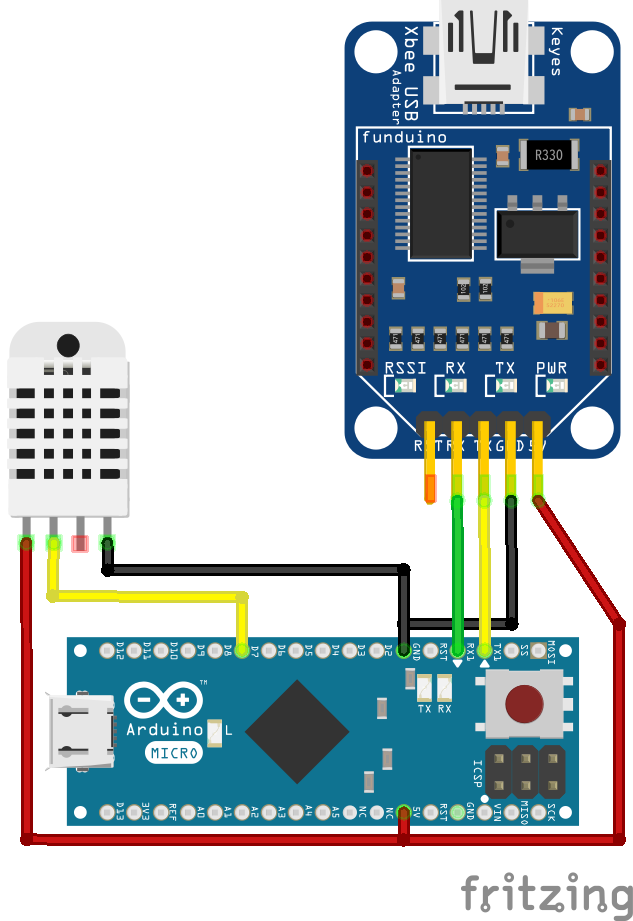
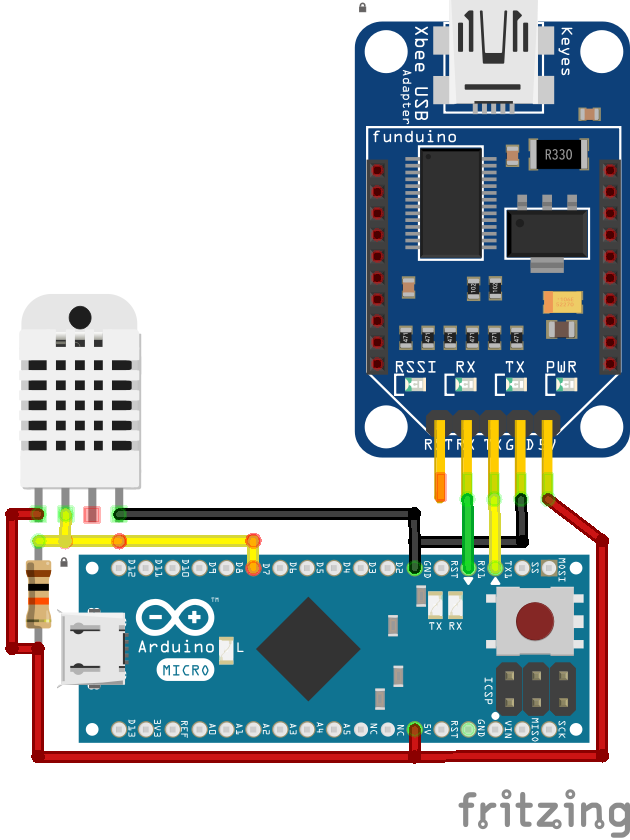
updated fritzing and README.md

diff --git a/README.md b/README.md
@@ -1,16 +1,26 @@
 # arduino-sensors
 remote sensing with arduinos
 
-The sketches here are categorized by wireless module and then sensor type.
+The sketches here are categorized by wireless module and sensor type until I work out a way to better modularize the parts.
 
-If you would like to add a sensor or a wireless module, please use msgpack to send the data, and be aware of how the keys are suffixed with the unit (such as "temp_c") and how each packet also includes a string for "stype" being the sensor type (eg "stype": "bme280").
+If you would like to add a sensor or a wireless module, im suing msgpack to send the data. Please be aware of how the keys are suffixed with the unit (such as "temp_c") and how each packet also includes a string for "stype" being the sensor type (eg "stype": "bme280") and a string for the node id.
 
 you can select different output formats for the base station, including sending the data straight to telegraf through a http handler.
 
 ### xbee configuration
-for configuration of xbees remember to set them to operate with escapes.
+Make sure xbees are on the same network.
+
+They should be in "API Mode With Escapes [2]".
+
+Remember to write down your base stations address (mine look like 0013A200 40BF137D) the last half of this address should go in BASE_SL with the 0x prefix (like 0x40BF137D).
+
+### general configuration
+The NODE_ID define should be changed for each arduino you program, this is just to help you keep track of which node is which.
+
+you can change the interval through the INTERVAL define at the start of each sketch. it is in seconds
 
 
+## dependencies
 
 all the arduino sketches depend on these libraries:
 

diff --git a/xbee/xbee-bme280/README.md b/xbee/xbee-bme280/README.md
@@ -1,4 +1,12 @@
-# bme280
+# bme280 with xbee
+
+### configuration
+you can pullup/down on some of these sensor modules to change the address, there is a define for the sensor address at the top of the sketch.
+
+remember to change the BASE_SL to your base stations low address and NODE_ID to the unique id you want for each node.
+
+
+### troubleshooting, etc
 For running this on a non-micro (like a nano), you might need to change some lines in [xbee-bme280.ino](xbee-bme280.ino):
 
 ```

diff --git a/xbee/xbee-dht22/README.md b/xbee/xbee-dht22/README.md
@@ -1,4 +1,9 @@
-# bme280
+# dht22 with xbee
+
+###configuration
+
+
+###troubleshooting, etc
 For running this on a non-micro (like a nano), you might need to change some lines in [xbee-dht22.ino](xbee-dht22.ino):
 
 ```
@@ -29,4 +34,4 @@ Serial.println();
 
 Wiring for an arduino micro 32u4:
 
-![Example wiring diagram image](micro-xbee-dht22_bb.png)
+![Example wiring diagram image](micro-xbee-dht22_b.png)
